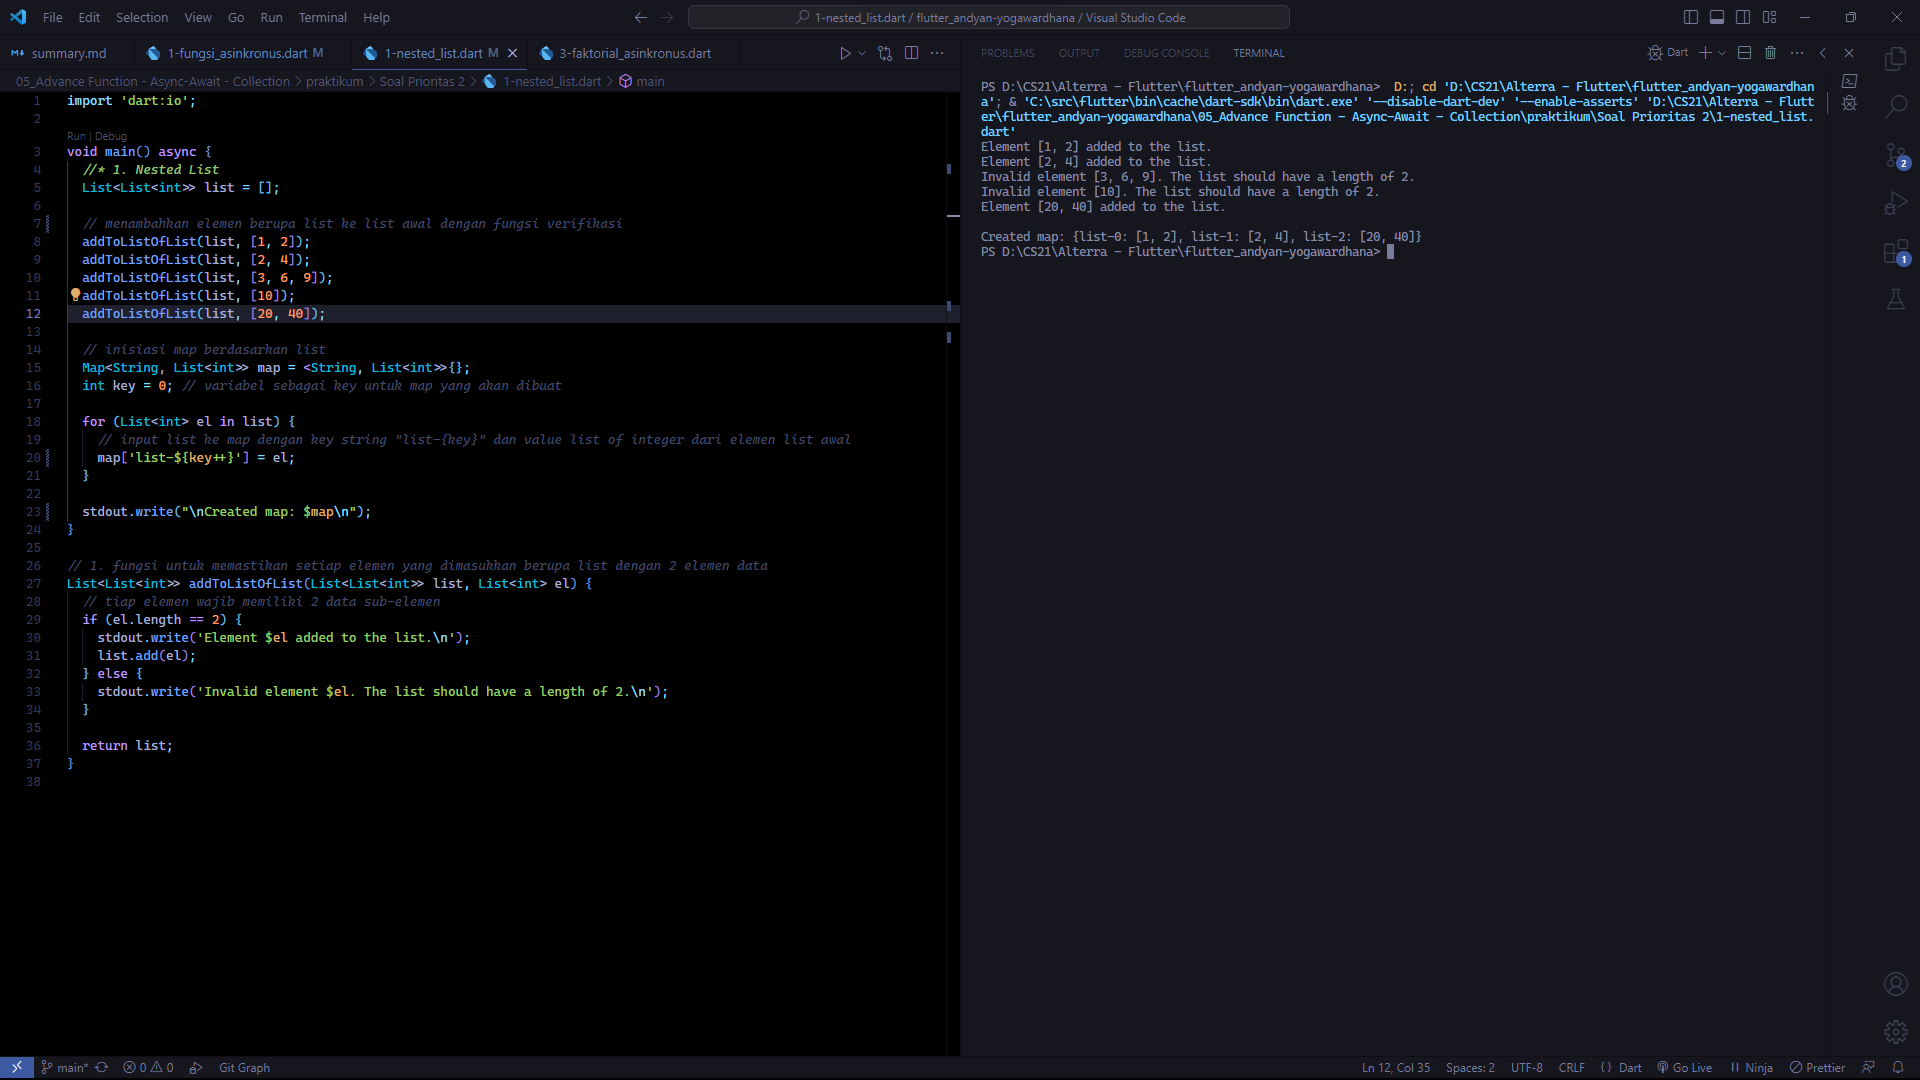
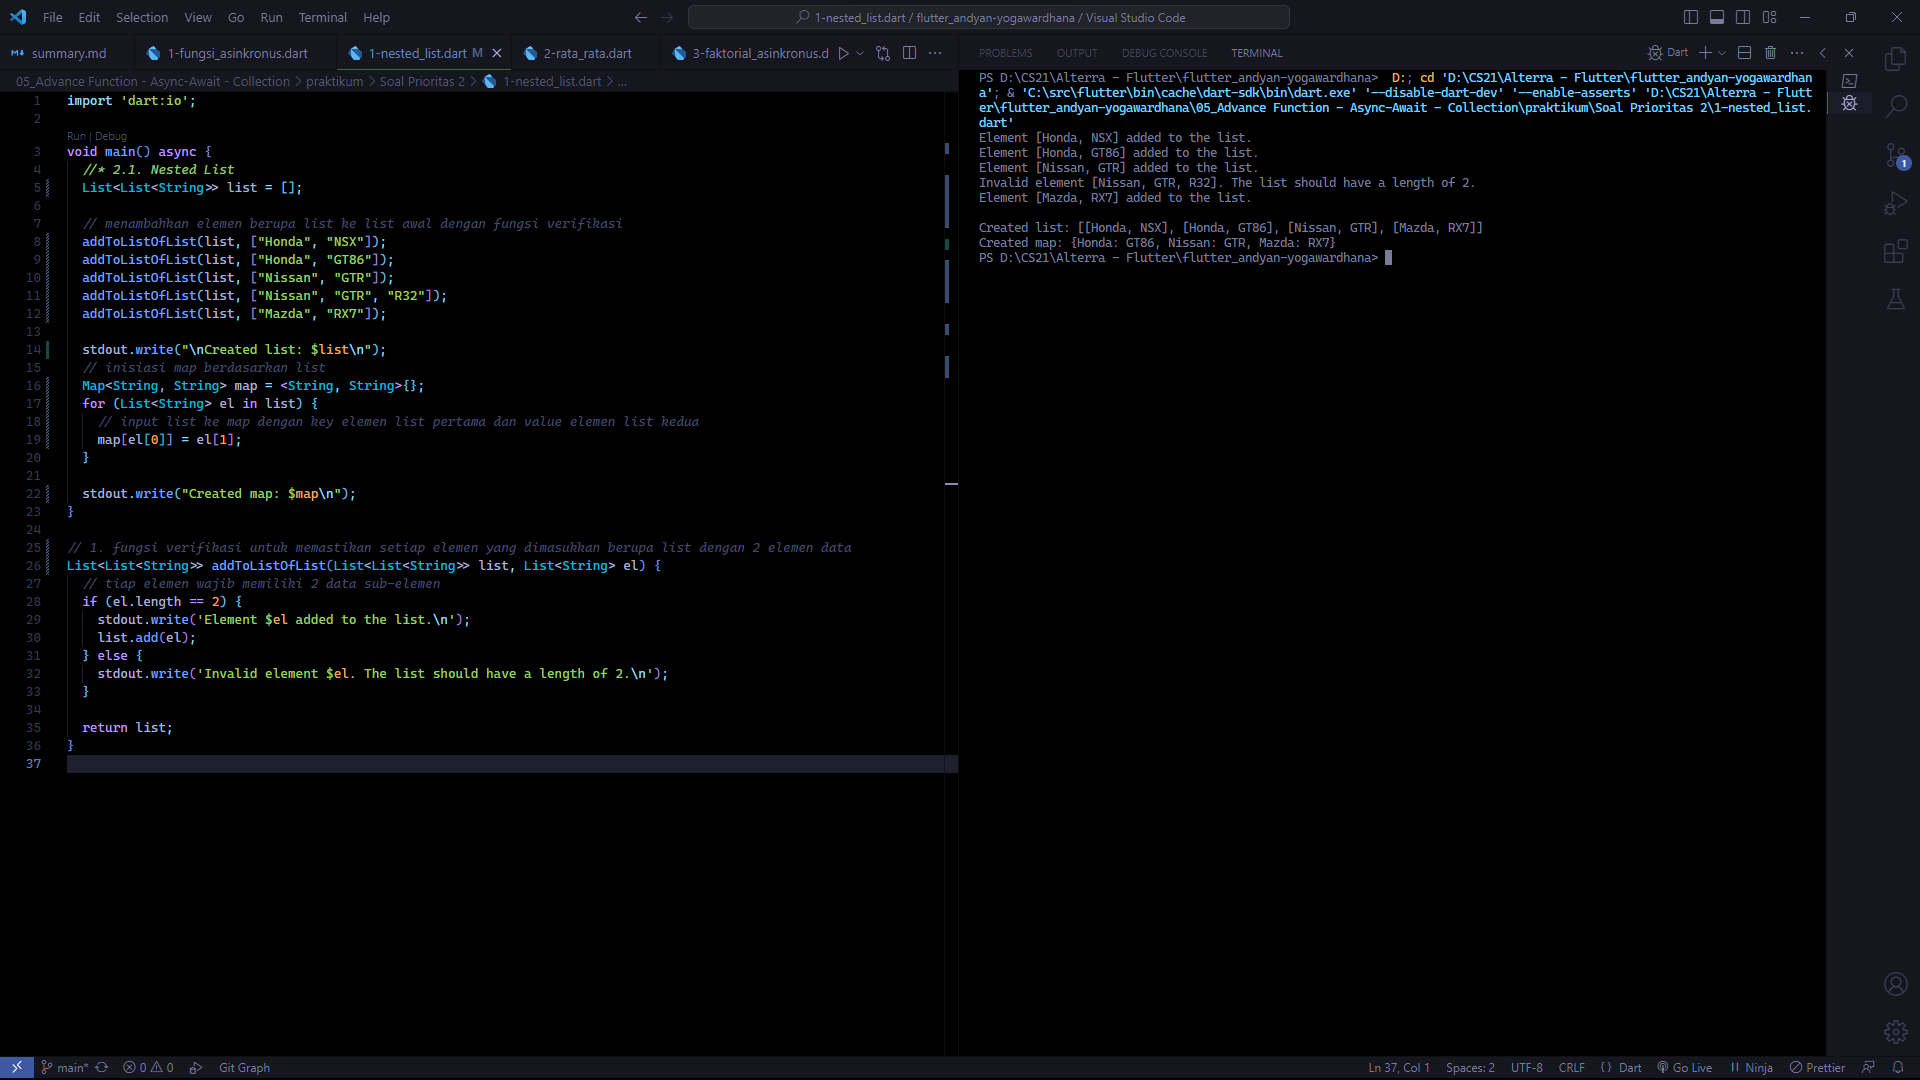
fix - revisi tugas 5 sp 2 (update map key & value)

diff --git a/05_Advance Function - Async-Await - Collection/praktikum/Soal Prioritas 2/1-nested_list.dart b/05_Advance Function - Async-Await - Collection/praktikum/Soal Prioritas 2/1-nested_list.dart
@@ -2,29 +2,28 @@ import 'dart:io';
 
 void main() async {
   //* 2.1. Nested List
-  List<List<int>> list = [];
+  List<List<String>> list = [];
 
   // menambahkan elemen berupa list ke list awal dengan fungsi verifikasi
-  addToListOfList(list, [1, 2]);
-  addToListOfList(list, [2, 4]);
-  addToListOfList(list, [3, 6, 9]);
-  addToListOfList(list, [10]);
-  addToListOfList(list, [20, 40]);
+  addToListOfList(list, ["Honda", "NSX"]);
+  addToListOfList(list, ["Honda", "GT86"]);
+  addToListOfList(list, ["Nissan", "GTR"]);
+  addToListOfList(list, ["Nissan", "GTR", "R32"]);
+  addToListOfList(list, ["Mazda", "RX7"]);
 
+  stdout.write("\nCreated list: $list\n");
   // inisiasi map berdasarkan list
-  Map<String, List<int>> map = <String, List<int>>{};
-  int key = 0; // variabel sebagai key untuk map yang akan dibuat
-
-  for (List<int> el in list) {
-    // input list ke map dengan key string "list-{key}" dan value list of integer dari elemen list awal
-    map['list-${key++}'] = el;
+  Map<String, String> map = <String, String>{};
+  for (List<String> el in list) {
+    // input list ke map dengan key elemen list pertama dan value elemen list kedua
+    map[el[0]] = el[1];
   }
 
-  stdout.write("\nCreated map: $map\n");
+  stdout.write("Created map: $map\n");
 }
 
-// 1. fungsi untuk memastikan setiap elemen yang dimasukkan berupa list dengan 2 elemen data
-List<List<int>> addToListOfList(List<List<int>> list, List<int> el) {
+// 1. fungsi verifikasi untuk memastikan setiap elemen yang dimasukkan berupa list dengan 2 elemen data
+List<List<String>> addToListOfList(List<List<String>> list, List<String> el) {
   // tiap elemen wajib memiliki 2 data sub-elemen
   if (el.length == 2) {
     stdout.write('Element $el added to the list.\n');
